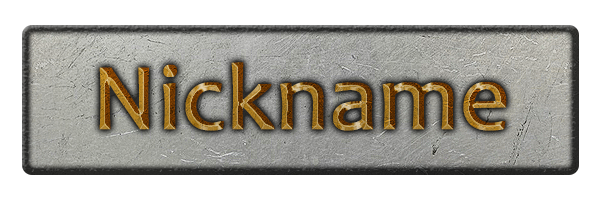
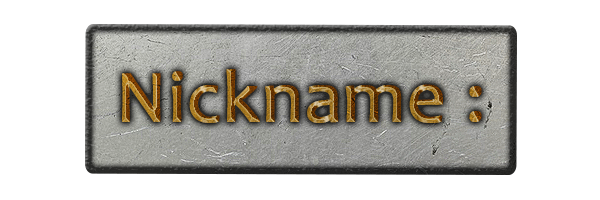
e

diff --git a/src/menu/MenuMapChoice.java b/src/menu/MenuMapChoice.java
@@ -1,0 +1,169 @@
+package menu;
+
+
+import java.util.Vector;
+
+import org.newdawn.slick.Color;
+import org.newdawn.slick.Graphics;
+import org.newdawn.slick.Image;
+import org.newdawn.slick.Input;
+import org.newdawn.slick.SlickException;
+
+import bullets.Bullet;
+import model.Game;
+import model.Objet;
+import model.Utils;
+
+public class MenuMapChoice extends Menu {
+
+	Vector<Objet> trees = new Vector<Objet>();
+	Vector<Bullet> bullets = new Vector<Bullet>();
+	float timer = 0f;
+	float nextBullet = 1f;
+	Image title;
+	public boolean toGame = false;
+	public float timeToGame = 00f;
+	public Image gamemode;
+	public Image players;
+	public Image map;
+	public Image back;
+	public Image play;
+
+	public Image playSelected;
+	public Image backSelected;
+	public int selected = -1;
+	
+	private boolean multiplaying;
+	
+	//TODO upgrading multiplayer
+	public int cooldown;
+
+	public MenuMapChoice(Game game){
+		this.music = game.musics.menu;
+		this.music.loop();
+		this.music.setVolume(game.options.musicVolume);
+		this.game = game;
+		this.items = new Vector<Menu_Item>();
+		this.multiplaying = game.inMultiplayer;
+		float startY = 100f;
+		float stepY = 0.13f*this.game.resY;
+		float ratioReso = this.game.resX/2400f;
+		try {
+			this.play = new Image("pics/menu/play.png").getScaledCopy(ratioReso);
+			this.playSelected = new Image("pics/menu/playselected.png").getScaledCopy(ratioReso);
+			this.back= new Image("pics/menu/back.png").getScaledCopy(ratioReso);
+			this.backSelected= new Image("pics/menu/backselected.png").getScaledCopy(ratioReso);
+			this.gamemode = new Image("pics/menu/gamemode.png").getScaledCopy(ratioReso);
+			this.players = new Image("pics/menu/players.png").getScaledCopy(ratioReso);
+			this.map = new Image("pics/menu/map.png").getScaledCopy(ratioReso);
+			float startX = this.game.resX/2-this.gamemode.getWidth()/2;
+			this.items.addElement(new Menu_Item(startX,startY,this.gamemode,this.gamemode,this.game));
+			this.items.get(0).selectionable = false;
+			this.items.addElement(new Menu_Item(25f,startY+1f*stepY,this.players,this.players,this.game));
+			this.items.get(1).selectionable = false;
+			this.items.addElement(new Menu_Item(game.resX*2f/3f,startY+1f*stepY,this.map,this.map,this.game));
+			this.items.get(2).selectionable = false;
+			this.items.addElement(new Menu_Item(startX-20f-this.play.getWidth(),this.game.resY-1.5f*stepY,this.map,this.map,this.game));
+			this.items.addElement(new Menu_Item(startX+20f,this.game.resY-1.5f*stepY,this.map,this.map,this.game));
+		} catch (SlickException e1) {
+			e1.printStackTrace();
+		}
+		//		}
+		Utils.triY(trees);
+		try{
+			this.sounds = game.sounds;
+			this.title = new Image("pics/menu/goldtitle.png");
+		} catch (SlickException e) {
+			e.printStackTrace();
+		}
+	}
+
+	
+	public void callItem(int i){
+		switch(i){
+		case 0:
+			this.toGame = true;
+			this.music.fade(300,0f, true);
+			break;
+		case 1:
+			this.game.setMenu(this.game.menuMulti);
+			break;
+		case 2:
+			this.game.setMenu(this.game.menuOptions);
+			break;
+		case 3: 
+			this.game.app.exit();
+			break;
+		default:		
+		}
+	}
+
+	public void draw(Graphics g){
+		g.setColor(Color.black);
+		g.fillRect(0, 0, this.game.resX, this.game.resY);
+		for(Menu_Item item: this.items){
+			item.draw(g);
+		}
+		g.setColor(Color.white);
+		if(multiplaying)
+			g.drawString("waiting for someone", this.game.resX/2f-g.getFont().getWidth("waiting for someone")/2f, this.game.resY-g.getFont().getHeight("waiting for someone")-2f);
+	}
+
+	public void update(Input i){
+		if(multiplaying){
+			if(i.isKeyPressed(Input.KEY_ESCAPE))
+				multiplaying = false;
+			if(this.game.host){
+				if(cooldown<=0){
+					this.game.toSendConnexions.addElement("2mythe");
+					cooldown+=50;
+				}else
+					cooldown-=1;
+				if(this.game.connexions.size()>0){
+					game.inMultiplayer = true;
+					callItem(0);
+					multiplaying = false;
+				}
+			} else {
+				if(this.game.connexions.size()>0){
+					this.game.toSendConnexions.addElement("2mythe");
+					this.game.toSendConnexions.addElement("2mythe");
+					this.game.toSendConnexions.addElement("2mythe");
+					try{
+						Thread.sleep(5);
+					} catch(InterruptedException e) { }
+					game.inMultiplayer = true;
+					game.currentPlayer = 2;
+					callItem(0);
+					multiplaying = false;
+				}
+			}
+		}else if(!toGame){
+			if(i!=null){
+				if(i.isMousePressed(Input.MOUSE_LEFT_BUTTON)){
+					callItems(i);
+					this.game.sounds.menuItemSelected.play(1f,game.options.soundVolume);
+				}
+				for(Menu_Item item: this.items){
+					item.update(i);
+				}			
+			}
+			Vector<Bullet> toremove = new Vector<Bullet>();
+			for(Bullet b: this.bullets){
+				if(b.lifePoints<=0)
+					toremove.add(b);
+			}
+			for(Bullet b: toremove)
+				this.bullets.remove(b);
+		} else {
+			this.timeToGame -= 1f;
+			if(timeToGame<0f){
+				this.music = game.musics.imperial;
+				this.music.loop();
+				this.music.setVolume(game.options.musicVolume);
+				this.game.newGame();
+				this.game.quitMenu();
+			}
+		}
+	}
+}

diff --git a/src/menu/Menu_TextScanner.java b/src/menu/Menu_TextScanner.java
@@ -9,60 +9,75 @@ import org.newdawn.slick.Input;
 public class Menu_TextScanner extends Menu_Item{
 
 	public String s;
-	public float x,y,sizeX,sizeY;
-	public HashMap<Character, Integer> intToChar = new HashMap<Character, Integer>();
-	
+	public HashMap<Integer, Character> intToChar = new HashMap<Integer, Character>();
+	public boolean isSelected = false;
+
 	public Menu_TextScanner(String s, float x, float y, float sizeX, float sizeY){
-		this.s = s;
+		if(s!=null)
+			this.s = s;
+		else 
+			s = "";
 		this.x = x;
 		this.y = y;
 		this.sizeX = sizeX;
 		this.sizeY = sizeY;
-		intToChar.put('A',Input.KEY_A);
-		intToChar.put('B',Input.KEY_B);
-		intToChar.put('C',Input.KEY_C);
-		intToChar.put('D',Input.KEY_D);
-		intToChar.put('E',Input.KEY_E);
-		intToChar.put('F',Input.KEY_F);
-		intToChar.put('G',Input.KEY_G);
-		intToChar.put('H',Input.KEY_H);
-		intToChar.put('I',Input.KEY_I);
-		intToChar.put('J',Input.KEY_J);
-		intToChar.put('K',Input.KEY_K);
-		intToChar.put('L',Input.KEY_L);
-		intToChar.put('M',Input.KEY_M);
-		intToChar.put('N',Input.KEY_N);
-		intToChar.put('O',Input.KEY_O);
-		intToChar.put('P',Input.KEY_P);
-		intToChar.put('Q',Input.KEY_Q);
-		intToChar.put('R',Input.KEY_R);
-		intToChar.put('S',Input.KEY_S);
-		intToChar.put('T',Input.KEY_T);
-		intToChar.put('U',Input.KEY_U);
-		intToChar.put('V',Input.KEY_V);
-		intToChar.put('W',Input.KEY_W);
-		intToChar.put('X',Input.KEY_X);
-		intToChar.put('Y',Input.KEY_Y);
-		intToChar.put('Z',Input.KEY_Z);
+		intToChar.put(Input.KEY_A,'A');
+		intToChar.put(Input.KEY_B,'B');
+		intToChar.put(Input.KEY_C,'C');
+		intToChar.put(Input.KEY_D,'D');
+		intToChar.put(Input.KEY_E,'E');
+		intToChar.put(Input.KEY_F,'F');
+		intToChar.put(Input.KEY_G,'G');
+		intToChar.put(Input.KEY_H,'H');
+		intToChar.put(Input.KEY_I,'I');
+		intToChar.put(Input.KEY_J,'J');
+		intToChar.put(Input.KEY_K,'K');
+		intToChar.put(Input.KEY_L,'L');
+		intToChar.put(Input.KEY_M,'M');
+		intToChar.put(Input.KEY_N,'N');
+		intToChar.put(Input.KEY_O,'O');
+		intToChar.put(Input.KEY_P,'P');
+		intToChar.put(Input.KEY_Q,'Q');
+		intToChar.put(Input.KEY_R,'R');
+		intToChar.put(Input.KEY_S,'S');
+		intToChar.put(Input.KEY_T,'T');
+		intToChar.put(Input.KEY_U,'U');
+		intToChar.put(Input.KEY_V,'V');
+		intToChar.put(Input.KEY_W,'W');
+		intToChar.put(Input.KEY_X,'X');
+		intToChar.put(Input.KEY_Y,'Y');
+		intToChar.put(Input.KEY_Z,'Z');
 	}
-	
+
 	public void update(Input i){
-		for(int k=0; k<255; k++){
-			if(i.isKeyPressed(k) && Input.getKeyName(k).length()==5){
-				s+=Input.getKeyName(k).substring(4);
+		if(isSelected){
+			for(Integer k: intToChar.keySet()){
+				if(i.isKeyPressed(k)){
+					s+=intToChar.get(k);
+				}
+				if(i.isKeyPressed(Input.KEY_BACK) && s.length()>0)
+					s=s.substring(0,s.length()-1);
+				if(i.isKeyPressed(Input.KEY_RETURN))
+					isSelected = false;
 			}
 		}
 	}
-	
+
 	public void reset(){
 		s = "";
 	}
-	
+
 	public void draw(Graphics g){
-		g.setColor(Color.white);
+		if(isSelected)
+			g.setColor(Color.yellow);
+		else
+			g.setColor(Color.white);
 		g.drawRect(x, y, sizeX, sizeY);
-		g.drawString(s, x, y);
+		g.setColor(Color.white);
+		float height = g.getFont().getHeight(s);
+		if(s!=null)
+			g.drawString(s, x+15f, y+sizeY/2-height/2);
 	}
-	
-	
+
+
 }

diff --git a/src/menu/MenuOptions.java b/src/menu/MenuOptions.java
@@ -40,7 +40,7 @@ public class MenuOptions extends Menu {
 		this.game = game;
 		this.items = new Vector<Menu_Item>();
 		//this.itemsSelected = new Vector<Menu_Item>();
-		float startY = 100f+0.1f*this.game.resX;
+		float startY = 150f;
 		float stepY = 0.15f*this.game.resY;
 		float ratioReso = this.game.resX/2400f;
 		try {
@@ -66,9 +66,9 @@ public class MenuOptions extends Menu {
 			this.items.addElement(new Menu_Item(2.5f*this.game.resX/4f,startY+1*stepY,this.plus,this.plusSelected,this.game));
 			this.items.addElement(new Menu_Item(2.5f*this.game.resX/4f,startY+2*stepY,this.plus,this.plusSelected,this.game));
 			this.items.addElement(new Menu_Item(startX,startY+4*stepY,this.back,this.backSelected,this.game));
-			this.items.addElement(new Menu_Item(startX,startY+3*stepY,this.nickname,this.nickname,this.game));
+			this.items.addElement(new Menu_Item(this.game.resX/4f,startY+3*stepY,this.nickname,this.nickname,this.game));
 			this.items.get(8).selectionable = false;
-			this.items.addElement(new Menu_TextScanner(game.options.nickname,2*this.game.resX/4f,startY+3*stepY,0.8f*this.game.resX/4f,0.5f*stepY));
+			this.items.addElement(new Menu_TextScanner(game.options.nickname,2*this.game.resX/4f,startY+3.3f*stepY,0.8f*this.game.resX/4f,0.4f*stepY));
 		} catch (SlickException e1) {
 			e1.printStackTrace();
 		}
@@ -83,6 +83,7 @@ public class MenuOptions extends Menu {
 
 	
 	public void callItem(int i){
+		((Menu_TextScanner) this.items.get(9)).isSelected = false;
 		switch(i){
 		case 3: this.game.options.musicVolume-=0.1f;break;
 		case 4: this.game.options.soundVolume-=0.02f;break;
@@ -92,6 +93,8 @@ public class MenuOptions extends Menu {
 			this.game.setMenu(game.menuIntro);
 			this.updateOptions();
 			break;
+		case 9:
+			((Menu_TextScanner) this.items.get(9)).isSelected = true;
 		default:		
 		}
 		this.game.options.musicVolume = Math.min(Math.max(this.game.options.musicVolume, 0f), 1f);
@@ -125,6 +128,7 @@ public class MenuOptions extends Menu {
 			PrintWriter fichierSortie = new PrintWriter (bw); 
 			fichierSortie.println ("musics: " + game.options.musicVolume);
 			fichierSortie.println ("sounds: " + game.options.soundVolume); 
+			this.game.options.nickname = ((Menu_TextScanner)this.items.get(9)).s;
 			fichierSortie.println ("nickname: " + game.options.nickname); 
 			fichierSortie.close();
 		}

diff --git a/src/multiplaying/MultiReceiver.java b/src/multiplaying/MultiReceiver.java
@@ -19,7 +19,7 @@ public class MultiReceiver extends Thread{
 
 
 	// DEBUGGING
-	private boolean debug = true;
+	private boolean debug = false;
 
 	public MultiReceiver(Game g, int port){
 		this.g = g;
